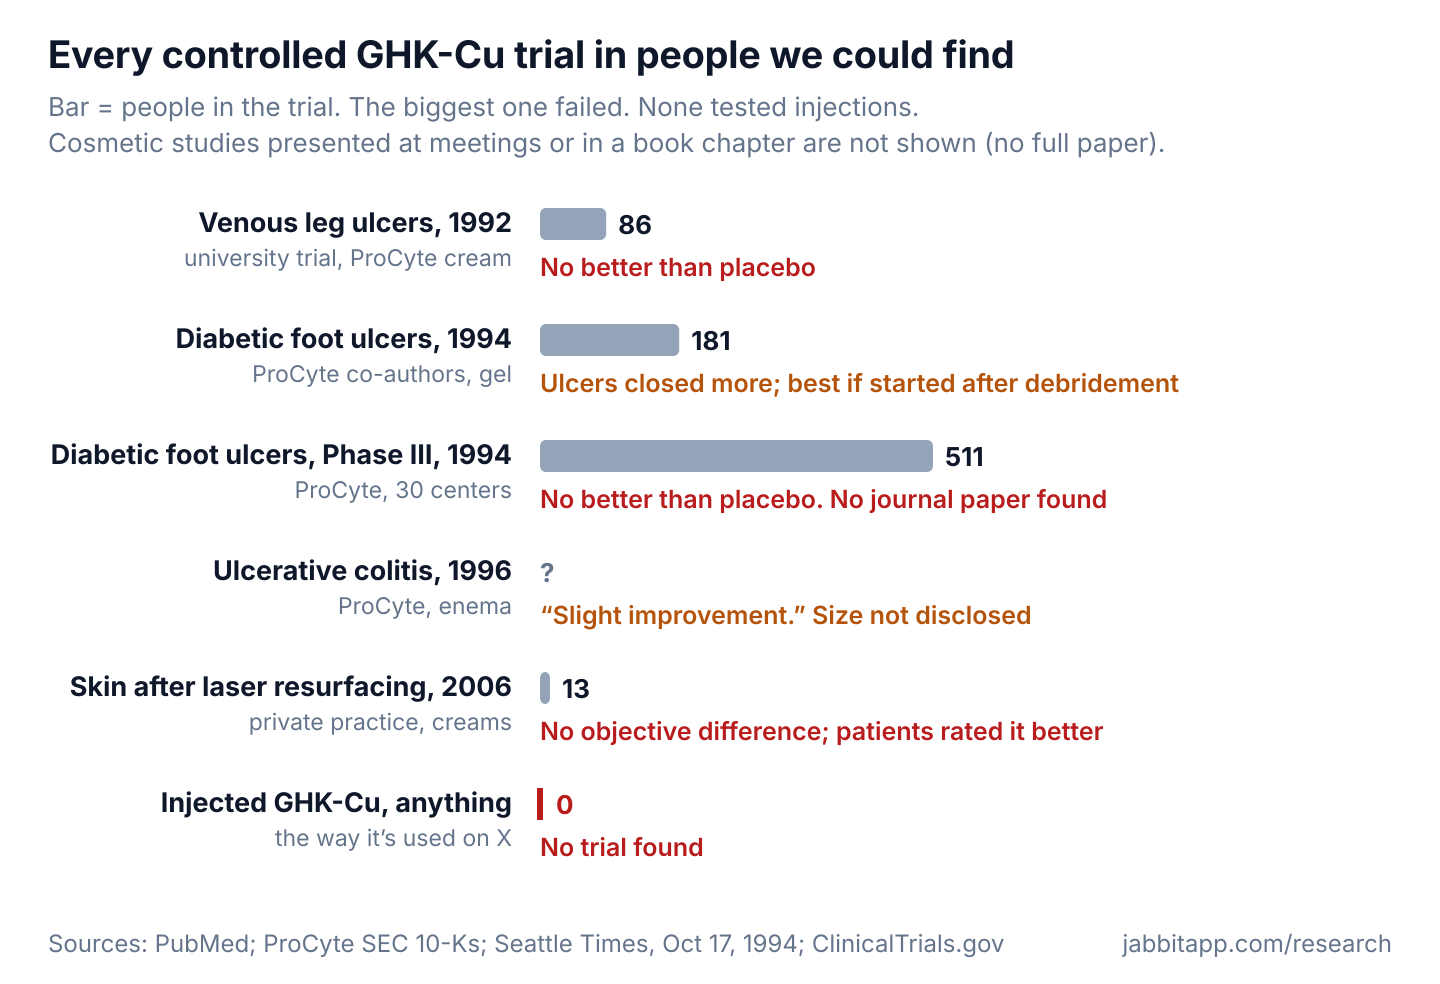
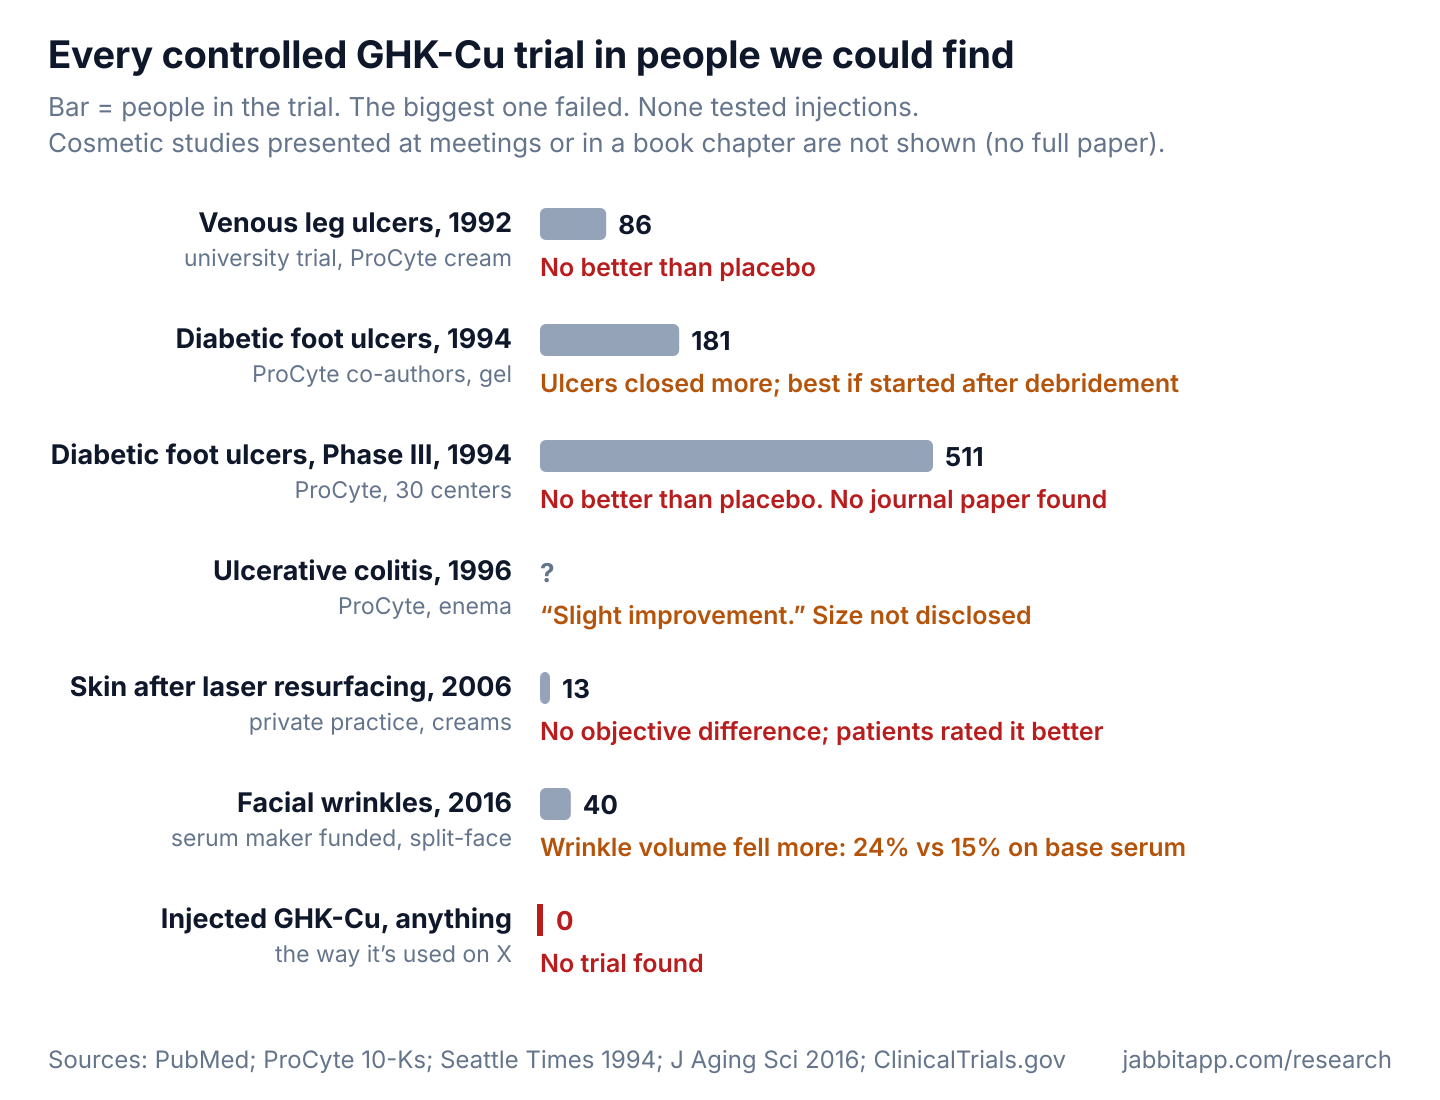
fix(content): GHK-Cu balance: add Badenhorst 2016 split-face RCT (40 women, maker-funded; wrinkle volume -24.1% vs -15.0% vs base without nano-carrier; not in PubMed) to teardown text, trials chart and profile; cite 2026 Aesthet Surg J systematic review (20 studies: 18 preclinical, 2 RCTs)

diff --git a/research/ghk-cu-copper-peptide-teardown.html b/research/ghk-cu-copper-peptide-teardown.html
@@ -11,7 +11,7 @@
 <meta property="og:description" content="GHK-Cu is everywhere on X. We traced it to its 1973 discovery, a failed 511-patient drug trial, SEC filings and the gene claims. Nobody has tested injecting it.">
 <meta property="og:url" content="https://jabbitapp.com/research/ghk-cu-copper-peptide-teardown.html">
 <meta property="og:image" content="https://jabbitapp.com/images/research/ghkcu-human-trials.png">
-<meta property="og:image:alt" content="Chart of every controlled GHK-Cu trial in people we found: venous ulcers 1992, 86 people, no better than placebo; diabetic ulcers 1994, 181, ulcers closed more in a ProCyte co-authored study; Phase III 1994, 511, no better than placebo; colitis 1996, slight improvement; laser skin 2006, 13, no objective difference; injected GHK-Cu, 0 trials.">
+<meta property="og:image:alt" content="Chart of every controlled GHK-Cu trial in people we found: venous ulcers 1992, 86 people, no better than placebo; diabetic ulcers 1994, 181, ulcers closed more in a ProCyte co-authored study; Phase III 1994, 511, no better than placebo; colitis 1996, slight improvement; laser skin 2006, 13, no objective difference; facial wrinkles 2016, 40, serum maker funded, wrinkle volume fell more; injected GHK-Cu, 0 trials.">
 <meta name="twitter:card" content="summary_large_image">
 <script type="application/ld+json">
 {
@@ -89,8 +89,8 @@
 <p>ProCyte’s own diabetic foot ulcer study looked better. Published in 1994 with ProCyte scientists as co-authors, it enrolled 181 people. Plantar ulcers closed more on Iamin gel than on a dummy gel, a median 98.5% versus 60.8%. The authors added that “treatment must commence immediately after the initial wound debridement to obtain optimal enhancement,” and in ulcers treated that way, infections were less common (7% versus 34%).<a class="cite" href="#ref-10">[10]</a></p>
 <p>Then came the test that counted. ProCyte ran a Phase III trial in 511 people with diabetic foot ulcers at 30 medical centers, using 0.5% or 2% gel against placebo for 8 or 16 weeks.<a class="cite" href="#ref-11">[11]</a><a class="cite" href="#ref-12">[12]</a> On October 17, 1994, the company announced that it worked no better than placebo. “Nothing in our experience led us to expect this outcome,” its research chief told The Seattle Times. A company executive told BioWorld, “what was surprising to us was the placebo worked.” Both doses and the placebo each fully closed about a third of ulcers, and all three groups reached 80 to 90% median closure.<a class="cite" href="#ref-11">[11]</a><a class="cite" href="#ref-12">[12]</a> As one analyst read it to The Seattle Times, the drug did about as well as it had in Phase II; the placebo did much better.<a class="cite" href="#ref-11">[11]</a> The stock fell 68% that day, from $8.87 to $2.81. ProCyte cut 35% of its staff, and shareholders sued.<a class="cite" href="#ref-12">[12]</a><a class="cite" href="#ref-13">[13]</a> We could not find a journal paper reporting this trial.</p>
 <figure>
-<img src="/images/research/ghkcu-human-trials.svg" width="720" height="492" alt="Chart of controlled GHK-Cu trials in people: venous ulcers 1992, 86 people, no better than placebo; diabetic foot ulcers 1994, 181, ulcers closed more in a ProCyte co-authored study; Phase III 1994, 511, no better than placebo, no journal paper found; ulcerative colitis 1996, size not disclosed, slight improvement; skin after laser resurfacing 2006, 13, no objective difference, patients rated it better; injected GHK-Cu, no trial found." loading="lazy">
-<figcaption>Every controlled GHK-Cu trial in people we found. Chart by Jabbit.<a class="cite" href="#ref-9">[9]</a><a class="cite" href="#ref-10">[10]</a><a class="cite" href="#ref-11">[11]</a><a class="cite" href="#ref-13">[13]</a><a class="cite" href="#ref-14">[14]</a><a class="cite" href="#ref-16">[16]</a><a class="cite" href="#ref-17">[17]</a><a class="cite" href="#ref-19">[19]</a></figcaption>
+<img src="/images/research/ghkcu-human-trials.svg" width="720" height="550" alt="Chart of controlled GHK-Cu trials in people: venous ulcers 1992, 86 people, no better than placebo; diabetic foot ulcers 1994, 181, ulcers closed more in a ProCyte co-authored study; Phase III 1994, 511, no better than placebo, no journal paper found; ulcerative colitis 1996, size not disclosed, slight improvement; skin after laser resurfacing 2006, 13, no objective difference, patients rated it better; facial wrinkles 2016, 40, funded by the serum maker, wrinkle volume fell more than on the base serum; injected GHK-Cu, no trial found." loading="lazy">
+<figcaption>Every controlled GHK-Cu trial in people we found. Chart by Jabbit.<a class="cite" href="#ref-9">[9]</a><a class="cite" href="#ref-10">[10]</a><a class="cite" href="#ref-11">[11]</a><a class="cite" href="#ref-13">[13]</a><a class="cite" href="#ref-14">[14]</a><a class="cite" href="#ref-16">[16]</a><a class="cite" href="#ref-31">[31]</a><a class="cite" href="#ref-17">[17]</a><a class="cite" href="#ref-19">[19]</a></figcaption>
 </figure>
 
 <h2>From drug to dressing to face cream</h2>
@@ -104,11 +104,11 @@
 <p>The gene claim comes from a 2014 paper by Pickart and two colleagues at Skin Biology. They didn’t test GHK on skin or people. They downloaded data from the Broad Institute’s Connectivity Map, a public library of how drugs change gene activity in lab cells. It had three GHK experiments: two in PC3 prostate cancer cells and one in MCF7 breast cancer cells, at 1 micromolar.<a class="cite" href="#ref-6">[6]</a> Counting every gene whose activity moved by 50% or more, they arrived at 31.2% of genes. The 2015 review describes GHK as able to change “at least 4,000 human genes, essentially resetting DNA to a healthier state.”<a class="cite" href="#ref-6">[6]</a><a class="cite" href="#ref-4">[4]</a> How does 1 micromolar compare with blood? The same authors give the young-adult level two ways that don’t match. 200 ng/mL works out to about 0.6 micromolar, while 10<sup>−7</sup> M is 0.1 micromolar, or about 34 ng/mL. So the gene tests used roughly 2 to 10 times the blood level they cite.<a class="cite" href="#ref-4">[4]</a><a class="cite" href="#ref-6">[6]</a><a class="cite" href="#ref-25">[25]</a> A gene moving up or down in a cancer cell line in a dish doesn’t tell you what happens in your skin. Both papers declare no conflict of interest, though their authors work for a company that sells GHK-Cu products.<a class="cite" href="#ref-4">[4]</a><a class="cite" href="#ref-6">[6]</a><a class="cite" href="#ref-8">[8]</a></p>
 
 <h2>What the skin studies actually are</h2>
-<p>Pickart’s 2015 review says “a number of placebo-controlled clinical studies” found GHK-Cu creams improved skin in women around 50.<a class="cite" href="#ref-4">[4]</a> We checked the references it gives. One is a pilot study. One is a presentation at a 2002 dermatology meeting, another is listed only as “University of Pennsylvania” with no journal, and the fourth is a chapter in a cosmetics book.<a class="cite" href="#ref-4">[4]</a> None is a full peer-reviewed trial report we could read. The one peer-reviewed randomized skin trial we found, from 2006, put GHK-Cu products on 13 people’s skin after laser resurfacing. Blinded evaluators and computer analysis found no difference in redness, wrinkles or overall skin quality. Patients on GHK-Cu did rate their skin better on a questionnaire (P = .04).<a class="cite" href="#ref-16">[16]</a></p>
+<p>Pickart’s 2015 review says “a number of placebo-controlled clinical studies” found GHK-Cu creams improved skin in women around 50.<a class="cite" href="#ref-4">[4]</a> We checked the references it gives. One is a pilot study. One is a presentation at a 2002 dermatology meeting, another is listed only as “University of Pennsylvania” with no journal, and the fourth is a chapter in a cosmetics book.<a class="cite" href="#ref-4">[4]</a> None is a full peer-reviewed trial report we could read. We found two randomized skin trials with full published reports. The first, from 2006, put GHK-Cu products on 13 people’s skin after laser resurfacing. Blinded evaluators and computer analysis found no difference in redness, wrinkles or overall skin quality. Patients on GHK-Cu did rate their skin better on a questionnaire (P = .04).<a class="cite" href="#ref-16">[16]</a> The second, from 2016, is more favorable. A University of Auckland team, funded by the serum’s maker, had 40 women put a GHK-Cu serum in a nano-carrier on one side of the face for 8 weeks. Wrinkle volume fell 24.1% on that side versus 15.0% with the plain serum base, and the GHK-Cu serum also beat a Matrixyl 3000 product on wrinkle volume. The base had neither GHK-Cu nor the nano-carrier, so the trial can’t say which did the work, and the paper isn’t in PubMed.<a class="cite" href="#ref-31">[31]</a> A 2026 systematic review in Aesthetic Surgery Journal counted 20 studies of GHK-Cu on its own for aesthetic uses: 18 preclinical and 2 randomized trials.<a class="cite" href="#ref-32">[32]</a></p>
 <p>We counted the whole literature. PubMed has 394 records on GHK, GHK-Cu or copper tripeptide. Only four are indexed as clinical trials. Two are in rabbits, and the two in people are the 1992 ulcer trial and the 2006 laser study. Neither found an objectively measured benefit.<a class="cite" href="#ref-9">[9]</a><a class="cite" href="#ref-16">[16]</a><a class="cite" href="#ref-17">[17]</a> On ClinicalTrials.gov, the only listing that tests GHK-Cu on its own is a topical gel study from “Hudson Biotech,” the same sponsor whose other entries call themselves “fictional” and a “(Mock Study).” We covered those in our <a href="/research/tb-500-thymosin-beta-4-teardown.html">TB-500 teardown</a>. A 2023 facial-device trial used a serum with GHK-Cu as one of several ingredients. We found no registered trial of injected GHK-Cu.<a class="cite" href="#ref-18">[18]</a><a class="cite" href="#ref-19">[19]</a></p>
 
 <h2>What GHK-Cu has going for it</h2>
-<p>It isn’t made up. GHK is a natural peptide that binds copper and helps carry it into cells, and copper is a cofactor for enzymes involved in building connective tissue.<a class="cite" href="#ref-3">[3]</a><a class="cite" href="#ref-24">[24]</a> Animal wound studies, several from groups outside Pickart’s companies, found faster healing. A French group, with a ProCyte co-author, found more connective tissue in rat wounds.<a class="cite" href="#ref-27">[27]</a> Turkish veterinary researchers found faster healing of rabbit wounds, and a Hong Kong group that injected it into rats’ knees found better ligament-graft healing at 6 weeks, though not at 12.<a class="cite" href="#ref-28">[28]</a><a class="cite" href="#ref-30">[30]</a> In human skin samples in the lab, it does get through the outer layer.<a class="cite" href="#ref-29">[29]</a> ProCyte’s 1994 study found plantar ulcers closed more on the gel, and the company cited a safety profile “evaluated in over 800 patients.”<a class="cite" href="#ref-10">[10]</a><a class="cite" href="#ref-13">[13]</a> So a modest cosmetic effect from creams is plausible. It just hasn’t been shown well.</p>
+<p>It isn’t made up. GHK is a natural peptide that binds copper and helps carry it into cells, and copper is a cofactor for enzymes involved in building connective tissue.<a class="cite" href="#ref-3">[3]</a><a class="cite" href="#ref-24">[24]</a> Animal wound studies, several from groups outside Pickart’s companies, found faster healing. A French group, with a ProCyte co-author, found more connective tissue in rat wounds.<a class="cite" href="#ref-27">[27]</a> Turkish veterinary researchers found faster healing of rabbit wounds, and a Hong Kong group that injected it into rats’ knees found better ligament-graft healing at 6 weeks, though not at 12.<a class="cite" href="#ref-28">[28]</a><a class="cite" href="#ref-30">[30]</a> In human skin samples in the lab, it does get through the outer layer.<a class="cite" href="#ref-29">[29]</a> ProCyte’s 1994 study found plantar ulcers closed more on the gel, and the company cited a safety profile “evaluated in over 800 patients.”<a class="cite" href="#ref-10">[10]</a><a class="cite" href="#ref-13">[13]</a> So a modest cosmetic effect from creams is plausible, and one industry-funded face-serum trial supports it.<a class="cite" href="#ref-31">[31]</a> It just hasn’t been shown well or independently.</p>
 
 <h2>Side effects and safety</h2>
 <p>Creams and gels have the most human use behind them. ProCyte described the compound’s safety profile as “evaluated in over 800 patients,” though that is the company’s own summary. The independent 1992 ulcer trial concluded the cream “was safe to use in humans” over its 4 weeks.<a class="cite" href="#ref-13">[13]</a><a class="cite" href="#ref-9">[9]</a> Injecting it is a different question. FDA says compounded injectable GHK-Cu “may pose risk for immunogenicity,” meaning the immune system could react to it, “due to the potential for aggregation and peptide-related impurities,” and that “there are limited data in humans to inform safety-related considerations.”<a class="cite" href="#ref-20">[20]</a> Nobody has published a study of injecting it into people.<a class="cite" href="#ref-17">[17]</a><a class="cite" href="#ref-19">[19]</a></p>
@@ -116,7 +116,7 @@
 
 <h2>Where it stands now</h2>
 <p>GHK-Cu isn’t an approved drug. It’s sold in cosmetics, and the FDA clearance we found was as a wound dressing in 1996.<a class="cite" href="#ref-13">[13]</a> On FDA’s page of compounding substances that may present significant safety risks, injectable GHK-Cu now sits in the table of nominations that were withdrawn, with its immune-reaction warning intact. FDA’s advisory committee is due to take up GHK-Cu before the end of February 2027; no date had been set when we checked.<a class="cite" href="#ref-20">[20]</a><a class="cite" href="#ref-21">[21]</a> It isn’t one of the peptides the committee voted on in July 2026.<a class="cite" href="#ref-23">[23]</a> For the regulatory details, see our <a href="/research/fda-peptide-compounding-policy-2026.html">FDA peptide policy explainer</a>.</p>
-<p>Bottom line: GHK-Cu is a real copper peptide with interesting lab and animal results. As a wound drug it failed its one large trial. The skin-cream evidence is mostly company-run studies that were never fully published, and the one small independent trial found no objectively measured difference. The age-decline and gene claims don’t hold up as stated. Nobody has tested what injecting it does.<a class="cite" href="#ref-9">[9]</a><a class="cite" href="#ref-11">[11]</a><a class="cite" href="#ref-16">[16]</a><a class="cite" href="#ref-4">[4]</a><a class="cite" href="#ref-6">[6]</a><a class="cite" href="#ref-17">[17]</a></p>
+<p>Bottom line: GHK-Cu is a real copper peptide with interesting lab and animal results. As a wound drug it failed its one large trial. The skin-cream evidence is thin: company-run studies that were never fully published, one industry-funded 2016 trial that found fewer wrinkles, and one small independent trial that found no objective difference. The age-decline and gene claims don’t hold up as stated. Nobody has tested what injecting it does.<a class="cite" href="#ref-9">[9]</a><a class="cite" href="#ref-11">[11]</a><a class="cite" href="#ref-16">[16]</a><a class="cite" href="#ref-31">[31]</a><a class="cite" href="#ref-4">[4]</a><a class="cite" href="#ref-6">[6]</a><a class="cite" href="#ref-17">[17]</a></p>
 
 <section id="related-links">
 <h2>Related</h2>
@@ -162,6 +162,8 @@
 <li id="ref-28">Cangul IT, Gul NY, Topal A, Yilmaz R. Evaluation of the effects of topical tripeptide-copper complex and zinc oxide on open-wound healing in rabbits. Vet Dermatol. 2006;17(6):417-423. PMID 17083573; and Gul NY, Topal A, Cangul IT, Yanik K. The effects of topical tripeptide copper complex and helium-neon laser on wound healing in rabbits. Vet Dermatol. 2008;19(1):7-14. PMID 18177285. <a href="https://pubmed.ncbi.nlm.nih.gov/17083573/" target="_blank" rel="noopener noreferrer">https://pubmed.ncbi.nlm.nih.gov/17083573/</a>; <a href="https://pubmed.ncbi.nlm.nih.gov/18177285/" target="_blank" rel="noopener noreferrer">https://pubmed.ncbi.nlm.nih.gov/18177285/</a>. Checked October 16, 2026.</li>
 <li id="ref-29">Hostynek JJ, Dreher F, Maibach HI. Human skin penetration of a copper tripeptide in vitro as a function of skin layer. Inflamm Res. 2011;60(1):79-86. doi:10.1007/s00011-010-0238-9. PMID 20721598. <a href="https://pubmed.ncbi.nlm.nih.gov/20721598/" target="_blank" rel="noopener noreferrer">https://pubmed.ncbi.nlm.nih.gov/20721598/</a>. Checked October 16, 2026.</li>
 <li id="ref-30">Fu SC, Cheuk YC, Chiu WY, et al. Tripeptide-copper complex GHK-Cu (II) transiently improved healing outcome in a rat model of ACL reconstruction. J Orthop Res. 2015;33(7):1024-1033. doi:10.1002/jor.22831. PMID 25731775 (Chinese University of Hong Kong; intra-articular injections; benefit at 6 weeks, no significant difference at 12 weeks). <a href="https://pubmed.ncbi.nlm.nih.gov/25731775/" target="_blank" rel="noopener noreferrer">https://pubmed.ncbi.nlm.nih.gov/25731775/</a>. Checked October 16, 2026.</li>
+<li id="ref-31">Badenhorst T, Svirskis D, Merrilees M, Bolke L, Wu Z. Effects of GHK-Cu on MMP and TIMP expression, collagen and elastin production, and facial wrinkle parameters. J Aging Sci. 2016;4(3):166. doi:10.4172/2329-8847.1000166 (University of Auckland; randomized, double-blind, split-face, 40 women aged 40–65, 8 weeks; GHK-Cu nano-carrier serum vs serum vehicle without GHK-Cu or nano-carrier: wrinkle volume −24.1% vs −15.0%, reported as 55.8% greater reduction, and depth −20.3% vs −15.3%; vs a Matrixyl 3000 product: volume 31.6% greater reduction, p = 0.0044, depth p = 0.0577; “This study was funded by Snowberry New Zealand Ltd in collaboration with Callaghan Innovation”; not found in PubMed). <a href="https://doi.org/10.4172/2329-8847.1000166" target="_blank" rel="noopener noreferrer">https://doi.org/10.4172/2329-8847.1000166</a>. Checked October 16, 2026.</li>
+<li id="ref-32">Mokhtar J, Mohamad B, Haddad J, et al. The regenerative potential of GHK-Cu in aesthetic medicine. Aesthet Surg J. 2026 Aug 20:sjag169. doi:10.1093/asj/sjag169. PMID 42619529 (systematic review through March 2026: “20 studies (18 preclinical; 2 RCTs) were included”; “a limited number of well-designed clinical trials”). <a href="https://pubmed.ncbi.nlm.nih.gov/42619529/" target="_blank" rel="noopener noreferrer">https://pubmed.ncbi.nlm.nih.gov/42619529/</a>. Checked October 16, 2026.</li>
 </ol>
 </section>
 <p class="disclaimer">This page analyzes published research, SEC filings, news reports, trial registries and FDA documents. It is not medical advice and does not recommend using, sourcing, or dosing GHK-Cu. The PubMed count, copper and concentration arithmetic, and X counts are Jabbit’s own; inputs are cited above.</p>

diff --git a/peptides/ghk-cu.html b/peptides/ghk-cu.html
@@ -62,7 +62,7 @@
 <h2>Topical versus injectable</h2>
 <p>The published human data are mostly topical and cosmetic. FDA’s compounding review is specifically about <strong>GHK-Cu for injectable routes</strong>, which it lists among substances previously placed in category 2 whose nominations were withdrawn, citing aggregation and impurity risk and stating “there are limited data in humans to inform safety-related considerations.”<a class="cite" href="#ref-4">[4]</a></p>
 <h2>Human trials</h2>
-<p>As a wound drug (Iamin gel), GHK-Cu did no better than placebo in a 1992 trial in 86 people with venous leg ulcers, and its developer ProCyte reported in October 1994 that a 511-patient Phase III trial in diabetic foot ulcers showed no significant benefit. ProCyte then obtained FDA clearance for Iamin gel as an over-the-counter wound dressing in 1996, a device route based mainly on safety.<a class="cite" href="#ref-6">[6]</a><a class="cite" href="#ref-7">[7]</a> A 2006 randomized study of GHK-Cu skin products after laser resurfacing (13 completers) found no objective difference.<a class="cite" href="#ref-8">[8]</a> For the full paper trail, see our <a href="/research/ghk-cu-copper-peptide-teardown.html">GHK-Cu teardown</a>.</p>
+<p>As a wound drug (Iamin gel), GHK-Cu did no better than placebo in a 1992 trial in 86 people with venous leg ulcers, and its developer ProCyte reported in October 1994 that a 511-patient Phase III trial in diabetic foot ulcers showed no significant benefit. ProCyte then obtained FDA clearance for Iamin gel as an over-the-counter wound dressing in 1996, a device route based mainly on safety.<a class="cite" href="#ref-6">[6]</a><a class="cite" href="#ref-7">[7]</a> A 2006 randomized study of GHK-Cu skin products after laser resurfacing (13 completers) found no objective difference.<a class="cite" href="#ref-8">[8]</a> A 2016 split-face trial in 40 women, funded by the serum’s maker, found wrinkle volume fell more with a GHK-Cu nano-carrier serum than with the plain serum base (24.1% versus 15.0%).<a class="cite" href="#ref-9">[9]</a> For the full paper trail, see our <a href="/research/ghk-cu-copper-peptide-teardown.html">GHK-Cu teardown</a>.</p>
 <h2>Regulatory status</h2>
 <p>A Drugs@FDA search returns no approved drug application containing GHK-Cu.<a class="cite" href="#ref-2">[2]</a> A 2026 review lists GHK-Cu among peptides marketed directly to patients without approval.<a class="cite" href="#ref-5">[5]</a></p>
 <h2>What is not known</h2>
@@ -87,6 +87,7 @@
 <li id="ref-6">Bishop JB, Phillips LG, Mustoe TA, et al. A prospective randomized evaluator-blinded trial of two potential wound healing agents for the treatment of venous stasis ulcers. J Vasc Surg. 1992;16(2):251-257. PMID 1495150. <a href="https://pubmed.ncbi.nlm.nih.gov/1495150/" target="_blank" rel="noopener noreferrer">https://pubmed.ncbi.nlm.nih.gov/1495150/</a>. Checked October 16, 2026.</li>
 <li id="ref-7">ProCyte Corporation. Annual report on Form 10-K for 1995, filed March 25, 1996 (Phase III, 511 patients, “disappointing results”; 510(k) clearance of Iamin gel as an OTC wound dressing, February 1996). <a href="https://www.sec.gov/Archives/edgar/data/856072/0000912057-96-005087.txt" target="_blank" rel="noopener noreferrer">https://www.sec.gov/Archives/edgar/data/856072/0000912057-96-005087.txt</a>. Checked October 16, 2026.</li>
 <li id="ref-8">Miller TR, Wagner JD, Baack BR, Eisbach KJ. Effects of topical copper tripeptide complex on CO2 laser-resurfaced skin. Arch Facial Plast Surg. 2006;8(4):252-259. PMID 16847171. <a href="https://pubmed.ncbi.nlm.nih.gov/16847171/" target="_blank" rel="noopener noreferrer">https://pubmed.ncbi.nlm.nih.gov/16847171/</a>. Checked October 16, 2026.</li>
+<li id="ref-9">Badenhorst T, Svirskis D, Merrilees M, Bolke L, Wu Z. Effects of GHK-Cu on MMP and TIMP expression, collagen and elastin production, and facial wrinkle parameters. J Aging Sci. 2016;4(3):166. doi:10.4172/2329-8847.1000166 (funded by Snowberry New Zealand Ltd). <a href="https://doi.org/10.4172/2329-8847.1000166" target="_blank" rel="noopener noreferrer">https://doi.org/10.4172/2329-8847.1000166</a>. Checked October 16, 2026.</li>
 </ol>
 </section>
 <p class="disclaimer">This page summarizes published research and regulatory documents. It is not medical advice and does not recommend using, sourcing, or dosing any of these substances.</p>
